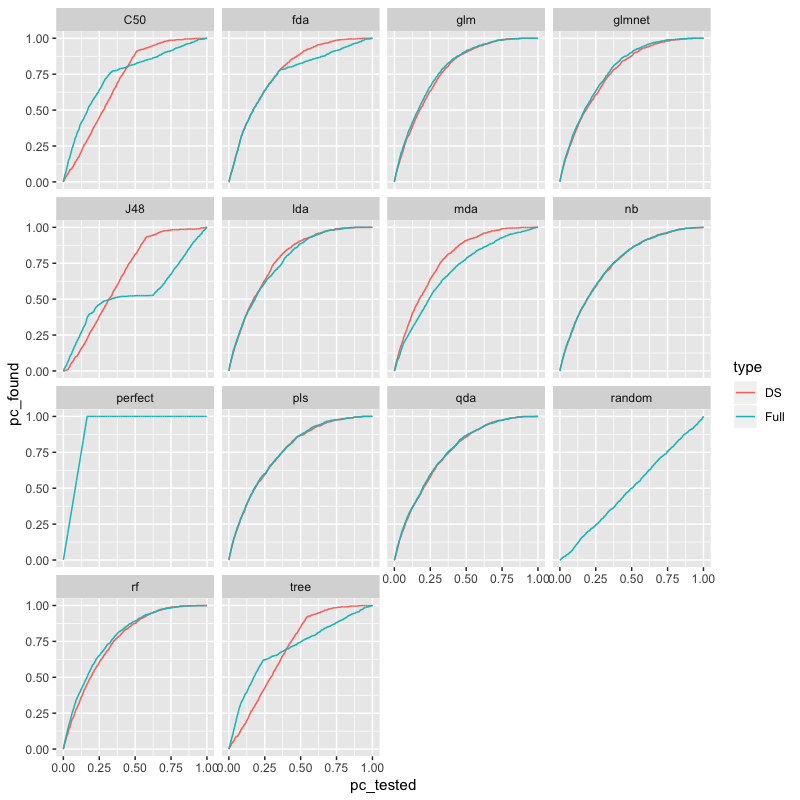
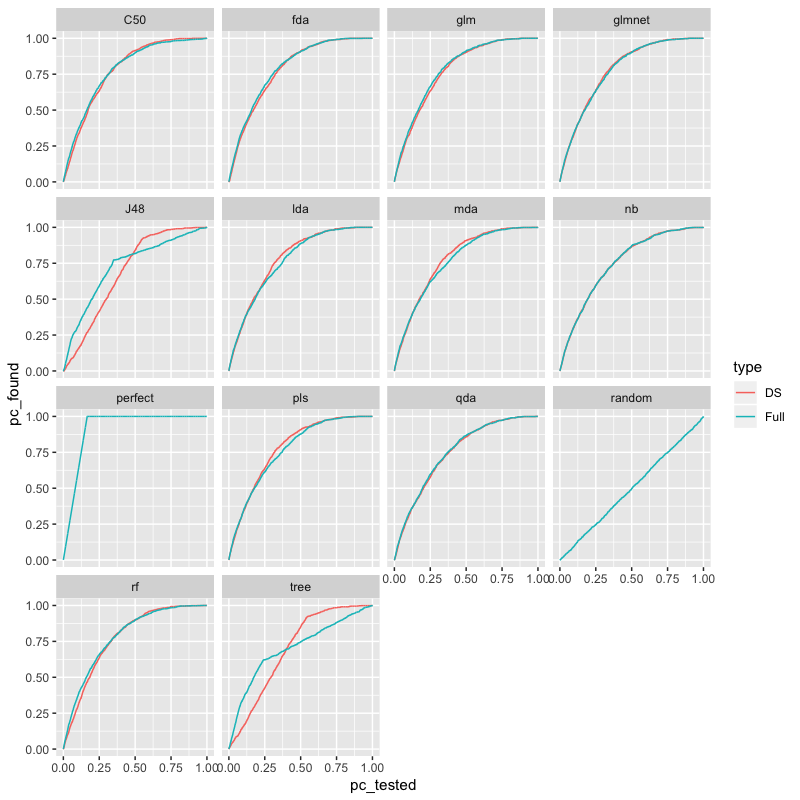
Rerun everything

diff --git a/chapter-16/README.md b/chapter-16/README.md
@@ -149,3 +149,5 @@ Built a load of models. Downsampling does make a difference in some cases:
 
 ![lift_plot](16.2/lift_plot.png)
 ![model_plot](16.2/model_plot.png)
+
+In terms of percentage to find 60% of custs, the best is glm trained on the full data set (21.3%). So a little over twice as many contacts as needed (as perfect model needs 10.0%). 
